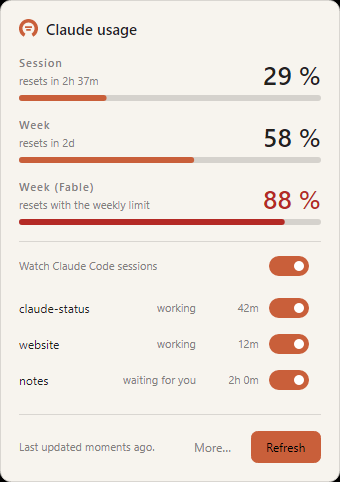
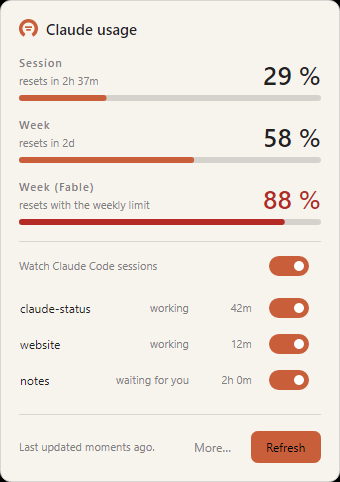
fix(widget): centre the mark again when no badge is under it, and bring the Windows docs level with the Mac's
Hanging the mark from the top of its column was meant for the session badge
to overlap its lower half, but it applied with the watch off too and moved the
mark 3 px up in every plain widget shot. The mark is centred with its nudge
again and `.badged` hangs it from the top only while the badge is there;
regenerating the README set leaves every plain widget image byte-identical.

Docs: the manual gains a taskbar widget section (the one indicator it never
described), the README's Windows sessions row names the dots and the 0/0 rule,
the QA checklist gets the Windows badge-and-dots steps, and screenshots.md
names the command that renders the Windows set. Only
window-details-sessions.png changed on regeneration.

diff --git a/README.md b/README.md
@@ -139,7 +139,7 @@ again.
 
 | | |
 | --- | --- |
-| ![Taskbar widget with a badge reading 2/3: two of three open sessions working](docs/screenshots/taskbar-widget-working.png) | **Session badge** *(Windows widget)* — a box on the mark reads *working / open*: how many Claude Code sessions have a turn in progress, out of how many are open. It breathes while anything is working. |
+| ![Taskbar widget with three pulsing dots and a badge reading 2/3: two of three open sessions working](docs/screenshots/taskbar-widget-working.png) | **Session badge and working dots** *(Windows widget)* — a box under the mark reads *working / open*: how many Claude Code sessions have a turn in progress, out of how many are open. It is there whenever the watch is on, `0/0` included. While a turn is in progress the mark gives way to three pulsing dots — Claude's own thinking sign — and the box breathes; the mark is back the moment nothing is working. |
 | <img src="docs/screenshots/macos-menu-bar-working.png" alt="The macOS menu bar item: three pulsing dots, a box reading 2/3, then 5h (2:36) 29% · 7d 58%" width="420"> | **Session badge and working dots** *(macOS menu bar)* — the same box, drawn beside the mark rather than written into the row, and painted in the menu bar's own ink so it reads in dark and light alike. While a turn is in progress the mark gives way to three pulsing dots, as above. |
 | <img src="docs/screenshots/macos-notification.png" alt="A macOS notification from ClaudeStatus: Sessions — claude-status is waiting for you." width="340"> | **Notification** *(macOS)* — when a turn ends; click it to bring that session's terminal to the front. |
 | <img src="docs/screenshots/window-details-sessions.png" alt="The details popup listing three sessions with their state, age and a notify switch each" width="300"> | **Session list** — in the details popup and the hover card: each session's folder, whether it is working or waiting for you, and for how long. One switch watches sessions at all; one per row silences a session you are sitting in front of anyway. **Click a running session in the popup to bring its terminal to the front** (Windows and macOS). |

diff --git a/docs/CHANGELOG-dev.md b/docs/CHANGELOG-dev.md
@@ -2796,3 +2796,29 @@ next.
   tests, green on macOS.
 - Nothing here touches credentials - it exists to avoid photographing a real
   reading, which is somebody's account data. `docs/security.md` unchanged.
+
+## 2026-09-25 — Windows screenshots and docs brought level with the Mac's
+
+- **The mark sat 3 px high with the watch off.** Hanging it from the top of the
+  column (so the badge could overlap its lower half) was applied whether or not
+  there was a badge, which moved the mark in every plain widget shot. `Path.
+  widgetMark` is centred with its 2 px nudge again, and `.badged` - bound to
+  `ShowSessions` - is what hangs it from the top. Regenerating the README set
+  afterwards left every plain widget image byte-identical to the committed one,
+  which is the proof.
+- **Screenshots** regenerated on Windows with `ScreenshotGenerator`: only
+  `window-details-sessions.png` changed (the state column moved with the Mac
+  session's list changes); the widget set, the popup, the config window, the
+  report and the theme gallery came out identical. The Windows working shot
+  already showed the dots and the `2/3` box.
+- **Docs**: `docs/manual.md` gains *The taskbar widget (Windows)* under *Using
+  it*, the Windows counterpart of the menu bar paragraph - it was the one
+  indicator the manual never described. README's Windows sessions row now says
+  the dots and the `0/0` rule, not just the breathing. `docs/qa-checklist.md`
+  gets the Windows badge-and-dots steps mirroring the macOS ones, with Task
+  Manager in place of Activity Monitor. `docs/screenshots.md` names the command
+  that renders the Windows set and that the running app must be stopped first.
+- No real photograph of the Windows taskbar was taken: the machine's own Claude
+  Code session would be counted, so the badge could not read the scripted `2/3`.
+  `docs/screenshots.md` covers how to pose one from another terminal.
+- Nothing here touches credentials; `docs/security.md` unchanged.

diff --git a/docs/manual.md b/docs/manual.md
@@ -141,6 +141,31 @@ is nothing there to fix.
 - Follows your taskbar's light/dark appearance. It is deliberately **not**
   themed — the taskbar is not ours to colour.
 
+### The taskbar widget (Windows)
+
+- The default indicator on Windows: a card in the taskbar beside the clock, led
+  by the app mark, showing the session and weekly limits at once - percentage,
+  spend bar, and under it a fainter bar filled with how much of the window has
+  elapsed. The session carries its time left as `(h:mm)` beside the label. Fable
+  is a third column when **Config → Display → Show Fable** is on.
+- Themed, unlike the tray icon, or blended into the taskbar in the clock's own
+  text colour (**Config → Display**, the default).
+- While the session watch is on, a rounded box under the mark reads the Claude
+  Code sessions with a turn in progress over the sessions open - `1/3`, and
+  `0/0` when none is. The count follows session events at once and is
+  recounted at every poll, so a session killed mid-turn stops counting as busy
+  once it has been silent for two hours and leaves the open count when the list
+  forgets it. With the watch off the box goes and the mark stands alone.
+- While at least one session is working the mark gives way to three dots pulsing
+  in sequence - Claude's own thinking sign - and the box breathes between two
+  shades of the theme's accent. The mark is back the moment nothing is working;
+  an open but idle session (`0/1`) shows the mark.
+- Hovering opens a card with all three limits, their reset times, the sessions
+  list, and the pace warning when there is one. Left and right click do what
+  they do on the tray icon.
+- Falls back to the tray icon when the taskbar cannot be joined (a vertical
+  taskbar, or a Windows update that moves things).
+
 ### The macOS menu bar
 
 - Text beside the mark, drawn by the OS: `5h (2:11) 56% · 7d 18%` in the row mode,

diff --git a/docs/qa-checklist.md b/docs/qa-checklist.md
@@ -201,6 +201,21 @@ With session watch on, so there are hooks to take out:
 ### Windows
 - Test on both Windows 10 and 11 if you can; the notification area differs.
 - Check the icon in the overflow ("hidden icons") area too, not just when pinned.
+- **Session badge and dots on the taskbar widget** (session watch on):
+  - [ ] Nothing open: the mark, with a `0/0` box under it, and nothing moves.
+    Switch the watch off in Config: the box goes and the mark is centred on
+    the metrics. Switch it back on: `0/n`.
+  - [ ] A prompt in Claude Code: three pulsing dots replace the mark within a
+    second or two, the box reads `1/1` and breathes, and the hover card lists
+    the session as working.
+  - [ ] A second session working at once: `2/2`. One turn ends: `1/2` and the
+    dots keep going. Both end: `0/2`, the mark is back and nothing moves. Close
+    one terminal: `0/1`.
+  - [ ] The widget does not change width as turns start and end; only a change
+    in the number of digits may widen it.
+  - [ ] Blended into a dark taskbar and into a light one: the dots take the
+    clock's ink; the box keeps the theme's accent in both.
+  - [ ] Task Manager: ClaudeStatus's CPU while the dots run, and while idle.
 - **Session notification click** (with session watch on, a prompt sent, then
   switch to another app and wait for the "waiting for you" toast):
   - [ ] Windows Terminal: clicking the toast brings that terminal window forward.

diff --git a/docs/screenshots.md b/docs/screenshots.md
@@ -8,7 +8,7 @@ There are two kinds of image in `docs/screenshots/`:
 
 | kind | how it is made |
 | --- | --- |
-| **Windows** (`window-*.png`, `taskbar-widget*.png`, `tray-*.png`, `themes/`, …) | Rendered by `ScreenshotGenerator` in the test suite, on Windows. Never regenerate them on a Mac: the fonts substitute and every image changes without any content changing. |
+| **Windows** (`window-*.png`, `taskbar-widget*.png`, `tray-*.png`, `themes/`, …) | Rendered by `ScreenshotGenerator` in the test suite, on Windows: `$env:CLAUDESTATUS_WRITE_SCREENSHOTS = "$PWD/docs/screenshots"` then `dotnet test tests/ClaudeStatus.App.Tests --filter-method '*Regenerates_the_readme*'` (stop the running app first; it locks the build output). The renders carry the scripted day's numbers and sessions already, at a fixed instant, so only what actually changed differs from the committed image. Never regenerate them on a Mac: the fonts substitute and every image changes without any content changing. |
 | **macOS** (`macos-*.png`) | Taken by hand from the running app, because the menu bar item is drawn by AppKit and nothing in the test suite can reach it. |
 
 Both need the app to be showing invented numbers rather than the machine's real
